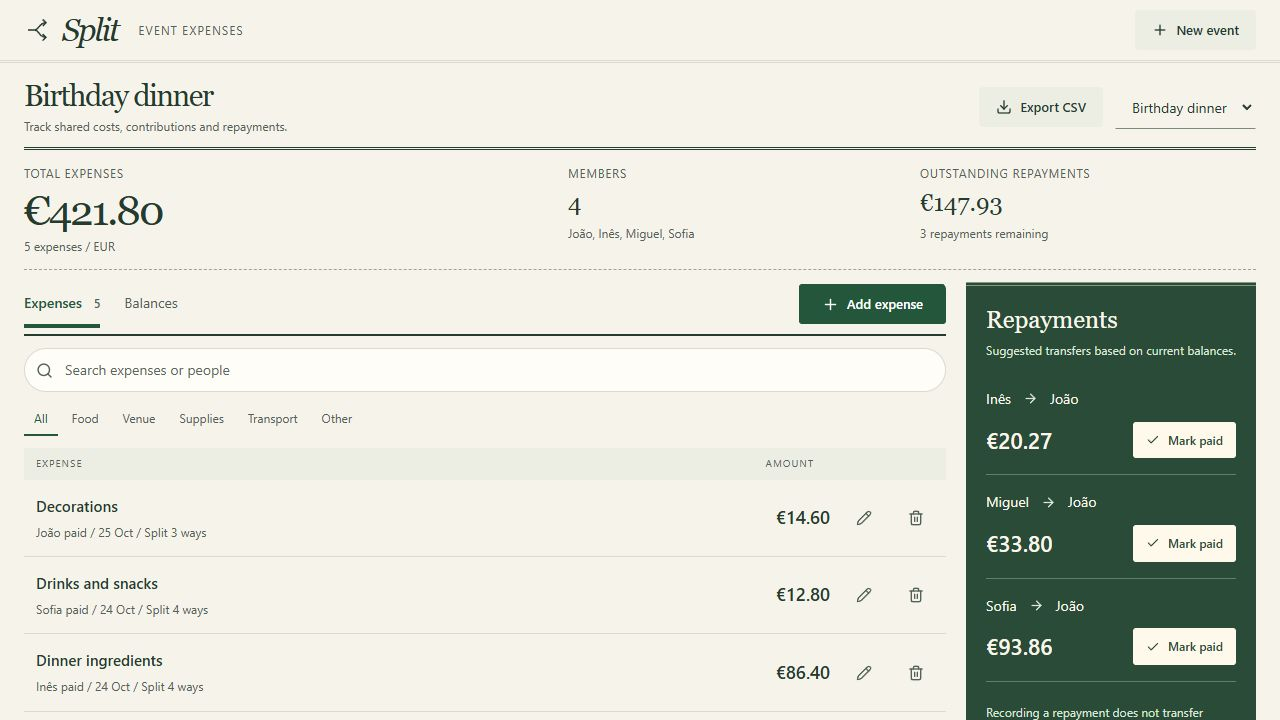
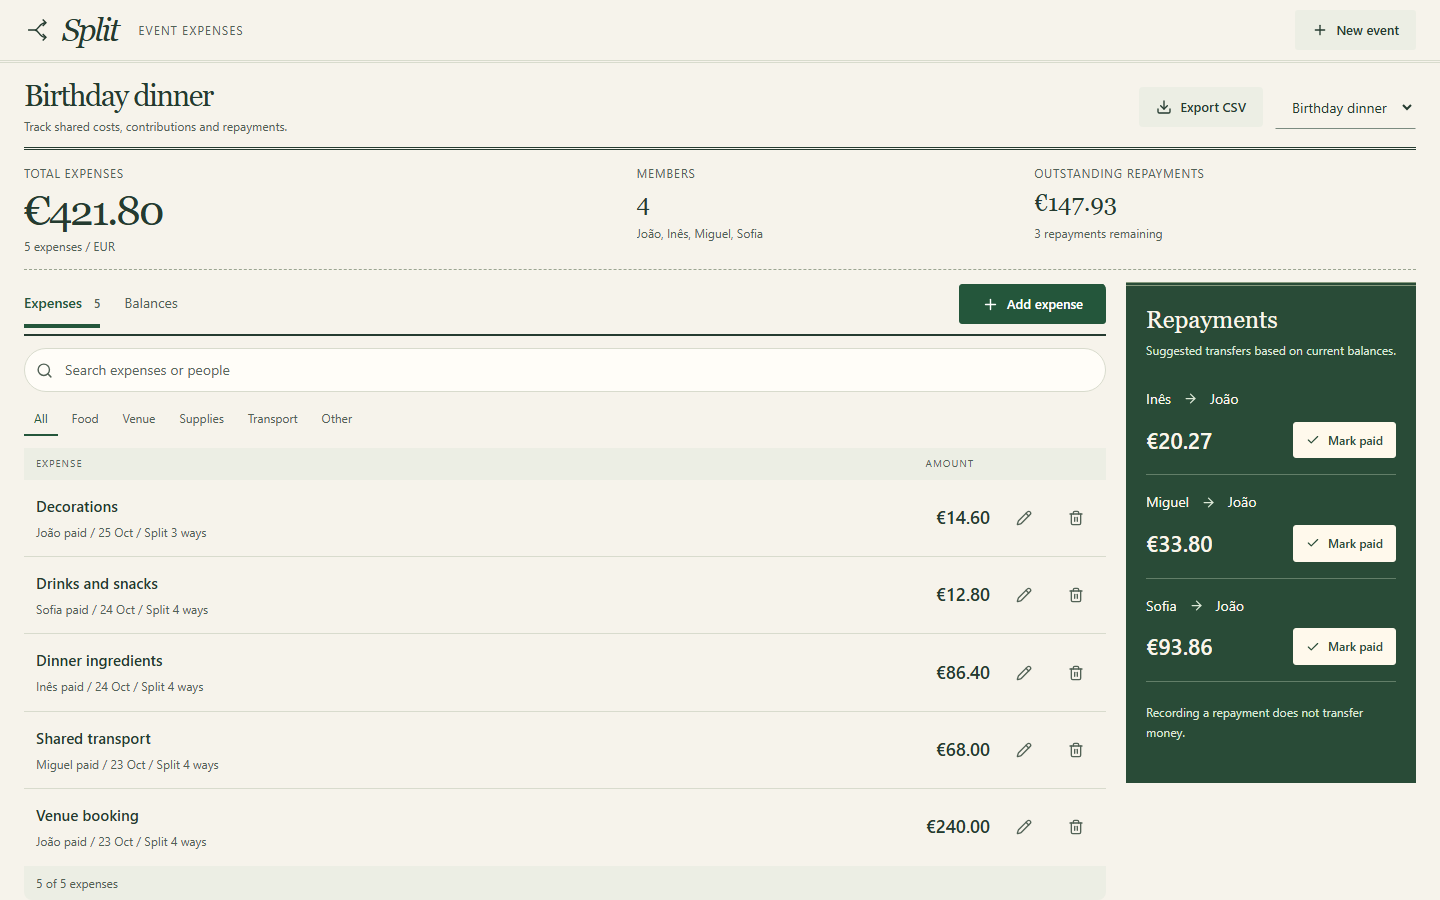
Export repayment plans and simplify project setup docs

diff --git a/src/App.tsx b/src/App.tsx
@@ -1,4 +1,4 @@
-import { expenseCsv } from './export';
+import { expenseCsv, repaymentCsv } from './export';
 import { splitCents } from '../server/money.mjs';
 import { Pencil, Download } from 'lucide-react';
 import { filterExpenses } from './expenses';
@@ -257,23 +257,32 @@ export default function App() {
           </div>
           <button
             className="button"
-            disabled={!event?.expenses.length}
+            disabled={
+              !event || (view === 'expenses' ? !event.expenses.length : !event.settlements.length)
+            }
             onClick={() => {
               if (!event) return;
               const url = URL.createObjectURL(
-                new Blob([expenseCsv(event.expenses, event.members)], {
-                  type: 'text/csv;charset=utf-8',
-                }),
+                new Blob(
+                  [
+                    view === 'balances'
+                      ? repaymentCsv(event.settlements, event.members)
+                      : expenseCsv(event.expenses, event.members),
+                  ],
+                  {
+                    type: 'text/csv;charset=utf-8',
+                  },
+                ),
               );
               const link = document.createElement('a');
               link.href = url;
-              link.download = 'event-expenses.csv';
+              link.download = view === 'balances' ? 'event-repayments.csv' : 'event-expenses.csv';
               link.click();
               setTimeout(() => URL.revokeObjectURL(url), 1000);
             }}
           >
             <Download size={16} aria-hidden="true" />
-            Export CSV
+            {view === 'balances' ? 'Export repayments' : 'Export CSV'}
           </button>
           <label className="event-switch">
             <span className="sr-only">Choose event</span>

diff --git a/src/export.ts b/src/export.ts
@@ -1,3 +1,9 @@
+const cell = (value: unknown) => {
+  let text = String(value);
+  if (/^[=+@\-\t\r]/.test(text)) text = "'" + text;
+  return '"' + text.replaceAll('"', '""') + '"';
+};
+
 type Row = {
   title: string;
   date: string;
@@ -8,11 +14,6 @@ type Row = {
 };
 export function expenseCsv(rows: Row[], members: { id: string; name: string }[]) {
   const names = new Map(members.map((m) => [m.id, m.name]));
-  const cell = (value: unknown) => {
-    let text = String(value);
-    if (/^[=+@\-\t\r]/.test(text)) text = "'" + text;
-    return '"' + text.replaceAll('"', '""') + '"';
-  };
   return [
     ['Date', 'Expense', 'Category', 'Paid by', 'Amount (EUR)', 'Split between'],
     ...rows.map((e) => [
@@ -22,6 +23,23 @@ export function expenseCsv(rows: Row[], members: { id: string; name: string }[])
       names.get(e.payerId) || '',
       (e.cents / 100).toFixed(2),
       e.splits.map((s) => names.get(s.id) || '').join(', '),
+    ]),
+  ]
+    .map((row) => row.map(cell).join(','))
+    .join('\r\n');
+}
+
+export function repaymentCsv(
+  transfers: { fromId: string; toId: string; cents: number }[],
+  members: { id: string; name: string }[],
+) {
+  const names = new Map(members.map((member) => [member.id, member.name]));
+  return [
+    ['From', 'To', 'Amount (EUR)'],
+    ...transfers.map((transfer) => [
+      names.get(transfer.fromId) || '',
+      names.get(transfer.toId) || '',
+      (transfer.cents / 100).toFixed(2),
     ]),
   ]
     .map((row) => row.map(cell).join(','))

diff --git a/src/export.test.ts b/src/export.test.ts
@@ -1,5 +1,5 @@
 import { describe, it, expect } from 'vitest';
-import { expenseCsv } from './export';
+import { expenseCsv, repaymentCsv } from './export';
 describe('expense CSV', () => {
   it('preserves exact cents, quotes names and neutralizes spreadsheet formulas', () => {
     const csv = expenseCsv(
@@ -22,4 +22,19 @@ describe('expense CSV', () => {
   it('exports a header for an empty event', () => {
     expect(expenseCsv([], []).split('\r\n')).toHaveLength(1);
   });
+});
+
+it('exports actionable repayments with exact cents and safe member names', () => {
+  const csv = repaymentCsv(
+    [{ fromId: 'a', toId: 'b', cents: 1001 }],
+    [
+      { id: 'a', name: '=Alex' },
+      { id: 'b', name: 'João, Silva' },
+    ],
+  );
+  expect(csv).toContain('"From","To","Amount (EUR)"');
+  expect(csv).toContain('"10.01"');
+  expect(csv).toContain('"João, Silva"');
+  expect(csv).toContain("'" + '=Alex');
+  expect(repaymentCsv([], []).split('\r\n')).toHaveLength(1);
 });

diff --git a/README.md b/README.md
@@ -1,10 +1,10 @@
 # Split
 
-Shared expenses, exact balances and repayment tracking. React, TypeScript, Node.js and SQLite.
+Split trip and household expenses, see who owes whom, and record repayments. Export expenses or the repayment plan as CSV. Amounts stay accurate to the cent.
 
-![Split ledger](docs/workspace.png)
+![Split workspace](docs/workspace.png)
 
-## Run
+## Setup
 
 Node.js 22.14+.
 
@@ -13,18 +13,6 @@ npm ci
 npm run dev
 ```
 
-Open http://localhost:5174. The first run creates a sample event.
+Open http://localhost:5174. A sample event is ready on first run; data is stored in `data/split.db`. Repayments are records, not money transfers.
 
-## Build and check
-
-```sh
-npm test
-npm run build
-npm start
-```
-
-Production: http://localhost:3001. Data: `data/split.db`.
-
-`npm run test:browser` checks the running app using an isolated, seeded database. Install Chromium with `npx playwright install chromium` first.
-
-Amounts use integer cents. Repayments are records; the app does not transfer money.
+React · TypeScript · Node.js · SQLite. [Development notes](docs/development.md).

diff --git a/docs/development.md b/docs/development.md
@@ -1,0 +1,28 @@
+# Split
+
+Shared expenses, exact balances and repayment tracking. React, TypeScript, Node.js and SQLite.
+
+## Run
+
+Node.js 22.14+.
+
+```sh
+npm ci
+npm run dev
+```
+
+Open http://localhost:5174. The first run creates a sample event.
+
+## Build and check
+
+```sh
+npm test
+npm run build
+npm start
+```
+
+Production: http://localhost:3001. Data: `data/split.db`.
+
+`npm run test:browser` checks the running app using an isolated, seeded database. Install Chromium with `npx playwright install chromium` first.
+
+Amounts use integer cents. Repayments are records; the app does not transfer money.
